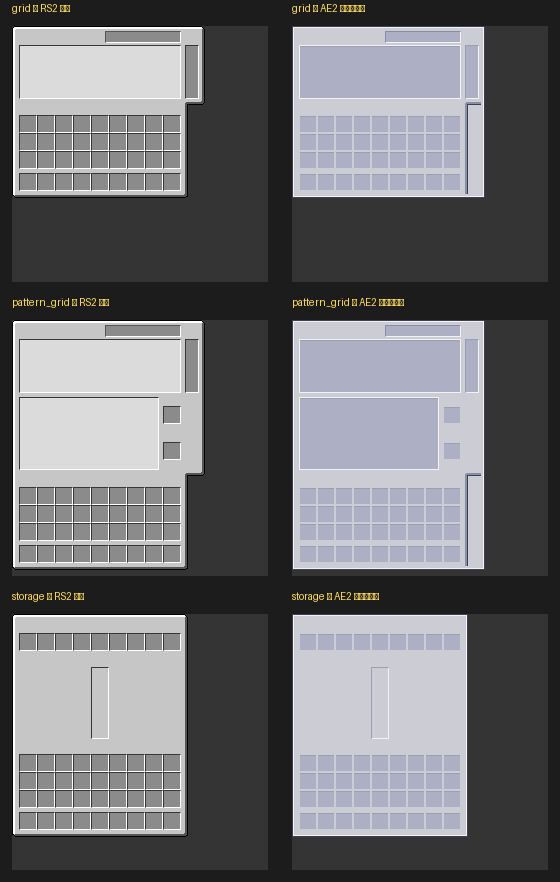
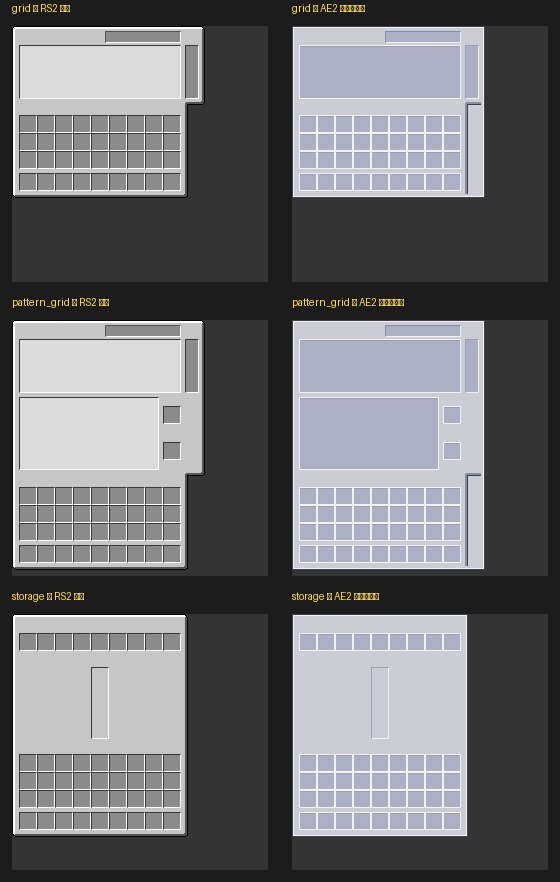
style(gui): give every slot cell a 1px white ring
Slot cells are now: 1px #F2F2F2 outer ring, 16x16 interior with the top row
#9A9FB4 (shadow) and the rest #ADB0C4. Adjacent cells each contribute their own
ring, so the grid reads as a white lattice on the #CBCCD4 panel, matching the
reference slot strip.

The standalone slot / large_slot sprites use the same language via draw_inset,
so sprite-drawn slots and baked slots look identical.

diff --git a/tools/ae2ify_gui.py b/tools/ae2ify_gui.py
@@ -102,13 +102,18 @@ def draw_inset(image, box):
 
 
 def draw_slot(image, box):
-    """槽位：参考包口径 —— 18x18 格里放 16x16 的格子，
-    顶边 1px #9A9FB4，其余 #ADB0C4，格间自然留出 2px 面板色。"""
+    """槽位：最外圈 1px 纯白，内部 16x16 —— 顶行 1px #9A9FB4 投影 + #ADB0C4 主体。
+    相邻槽位各贡献 1px 白圈，合起来就是 2px 白格网。"""
     x0, y0, x1, y1 = box
     pixels = image.load()
-    for y in range(y0 + 1, y1 - 1):
-        for x in range(x0 + 1, x1 - 1):
-            pixels[x, y] = (RING if y == y0 + 1 else INSET) + (255,)
+    for y in range(y0, y1):
+        for x in range(x0, x1):
+            if x == x0 or y == y0 or x == x1 - 1 or y == y1 - 1:
+                pixels[x, y] = HIGHLIGHT + (255,)
+            elif y == y0 + 1:
+                pixels[x, y] = RING + (255,)
+            else:
+                pixels[x, y] = INSET + (255,)
 
 
 def components(alpha):
